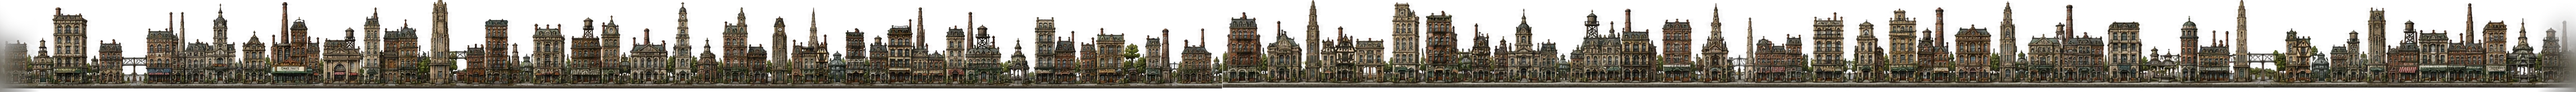
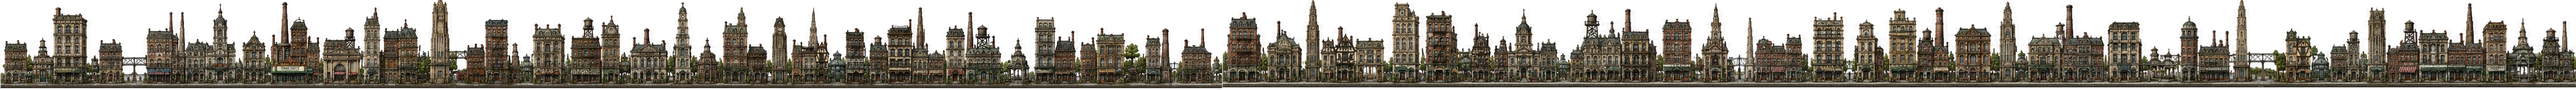
Add files via upload

diff --git a/airborne_aces2.html b/airborne_aces2.html
@@ -2532,6 +2532,9 @@ function menuMusicFadeStep() {
 if (menuMusic) menuMusic.addEventListener("timeupdate", menuMusicFadeStep);
 
 function startMenuMusic() {
+  // MP3 music disabled for now per request — function body left intact so
+  // this is a one-line revert (just remove the early return) to bring it back.
+  return;
   if (!menuMusic) return;
   if (menuMusic.paused) {
     menuMusic.play().then(() => { menuMusicUnlocked = true; }).catch(() => {});
@@ -2581,6 +2584,9 @@ function fadeGameplayMusicVolume(target, thenPause) {
 }
 
 function startGameplayMusic() {
+  // MP3 music disabled for now per request — function body left intact so
+  // this is a one-line revert (just remove the early return) to bring it back.
+  return;
   if (!gameplayMusic) return;
   if (gameplayMusic.paused) gameplayMusic.play().catch(() => {});
   fadeGameplayMusicVolume(gameplayMusicMuted ? 0 : musicVolumePref, false);
@@ -4023,8 +4029,8 @@ function endCutscene() {
   // the real building silhouette instead of a flat rectangle across the
   // whole strip — otherwise the player takes damage over open sky above a
   // short building just because it's within the same tile as a tall one.
-  const STREETROW1_PROFILE = [0.5, 0.159, 0.47, 0.335, 0.451, 0.439, 0.384, 0.433, 0.305, 0.335, 0.494, 0.226, 0.311, 0.39, 0.402, 0.439, 0.567, 0.476, 0.402, 0.463, 0.384, 0.396, 0.299, 0.573, 0.305, 0.402, 0.415, 0.488, 0.488, 0.36, 0.415, 0.421, 0.152, 0.165, 0.494, 0.445, 0.512, 0.238, 0.335, 0.238, 0.53, 0.427, 0.213, 0.409, 0.22, 0.305, 0.311, 0.409, 0.384, 0.244, 0.579, 0.445, 0.573, 0.415, 0.5, 0.427, 0.335, 0.396, 0.299, 0.433];
-  const STREETROW2_PROFILE = [0.447, 0.326, 0.379, 0.25, 0.333, 0.561, 0.409, 0.386, 0.364, 0.258, 0.409, 0.273, 0.455, 0.379, 0.288, 0.295, 0.47, 0.341, 0.394, 0.265, 0.182, 0.114, 0.477, 0.205, 0.424, 0.394, 0.538, 0.47, 0.265, 0.402, 0.447, 0.341, 0.515, 0.341, 0.303, 0.402, 0.409, 0.417, 0.47, 0.364, 0.356, 0.47, 0.379, 0.447, 0.341, 0.379, 0.394, 0.439, 0.424, 0.295, 0.356, 0.424, 0.409, 0.386, 0.462, 0.432, 0.447, 0.477, 0.311, 0.561];
+  const STREETROW1_PROFILE = [0.484, 0.161, 0.478, 0.342, 0.46, 0.447, 0.391, 0.441, 0.311, 0.342, 0.503, 0.23, 0.317, 0.398, 0.41, 0.447, 0.578, 0.484, 0.41, 0.472, 0.391, 0.404, 0.304, 0.584, 0.311, 0.41, 0.422, 0.497, 0.497, 0.366, 0.422, 0.429, 0.155, 0.168, 0.503, 0.453, 0.522, 0.242, 0.342, 0.242, 0.54, 0.435, 0.217, 0.416, 0.224, 0.311, 0.317, 0.416, 0.391, 0.248, 0.59, 0.453, 0.584, 0.422, 0.509, 0.435, 0.342, 0.404, 0.304, 0.435];
+  const STREETROW2_PROFILE = [0.488, 0.333, 0.388, 0.256, 0.341, 0.574, 0.419, 0.395, 0.372, 0.264, 0.419, 0.279, 0.465, 0.388, 0.295, 0.302, 0.481, 0.349, 0.403, 0.271, 0.186, 0.116, 0.488, 0.209, 0.434, 0.403, 0.55, 0.481, 0.271, 0.411, 0.457, 0.349, 0.527, 0.349, 0.31, 0.411, 0.419, 0.426, 0.481, 0.372, 0.364, 0.481, 0.388, 0.457, 0.349, 0.388, 0.403, 0.45, 0.434, 0.302, 0.364, 0.434, 0.419, 0.395, 0.473, 0.442, 0.457, 0.488, 0.318, 0.574];
   const BUILDING_ROW_PROFILES = { streetrow1: STREETROW1_PROFILE, streetrow2: STREETROW2_PROFILE };
 
   function buildingProfileTopFrac(b, sampleX) {
@@ -4095,10 +4101,11 @@ function endCutscene() {
 
   function drawBuildings() {
     const groundY = groundLevelY();
+    const overlap = Math.max(4, H * 0.006); // small downward nudge so the base meets the street with no gap
     buildings.forEach(b => {
       const img = images[b.key] || images[buildingRowKey];
       if (!img || !img.naturalWidth) return;
-      ctx.drawImage(img, b.x, groundY - b.h, b.w, b.h);
+      ctx.drawImage(img, b.x, groundY - b.h + overlap, b.w, b.h);
     });
   }
 
